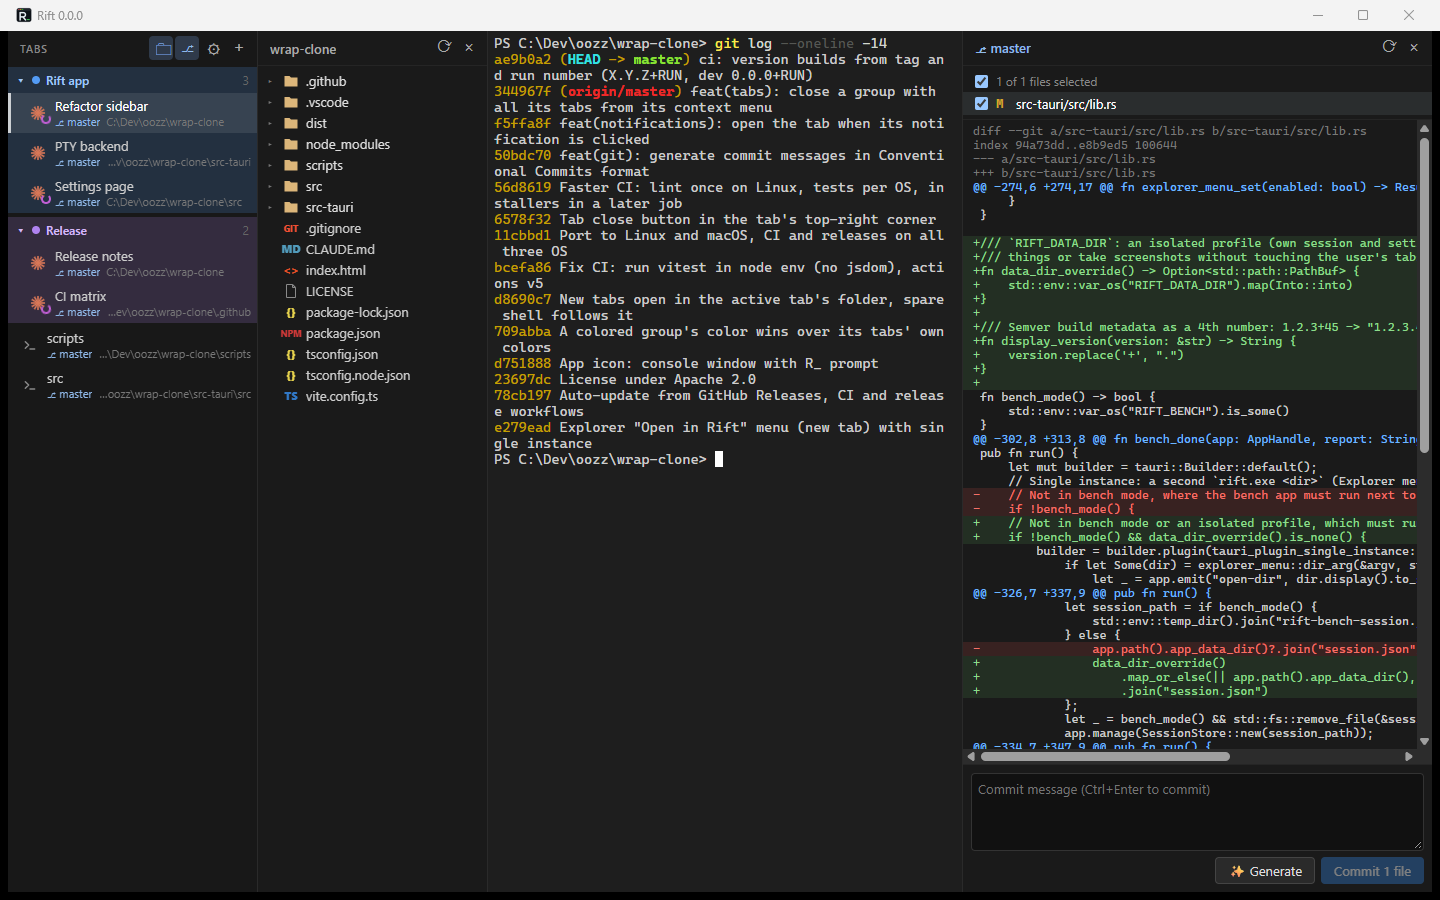
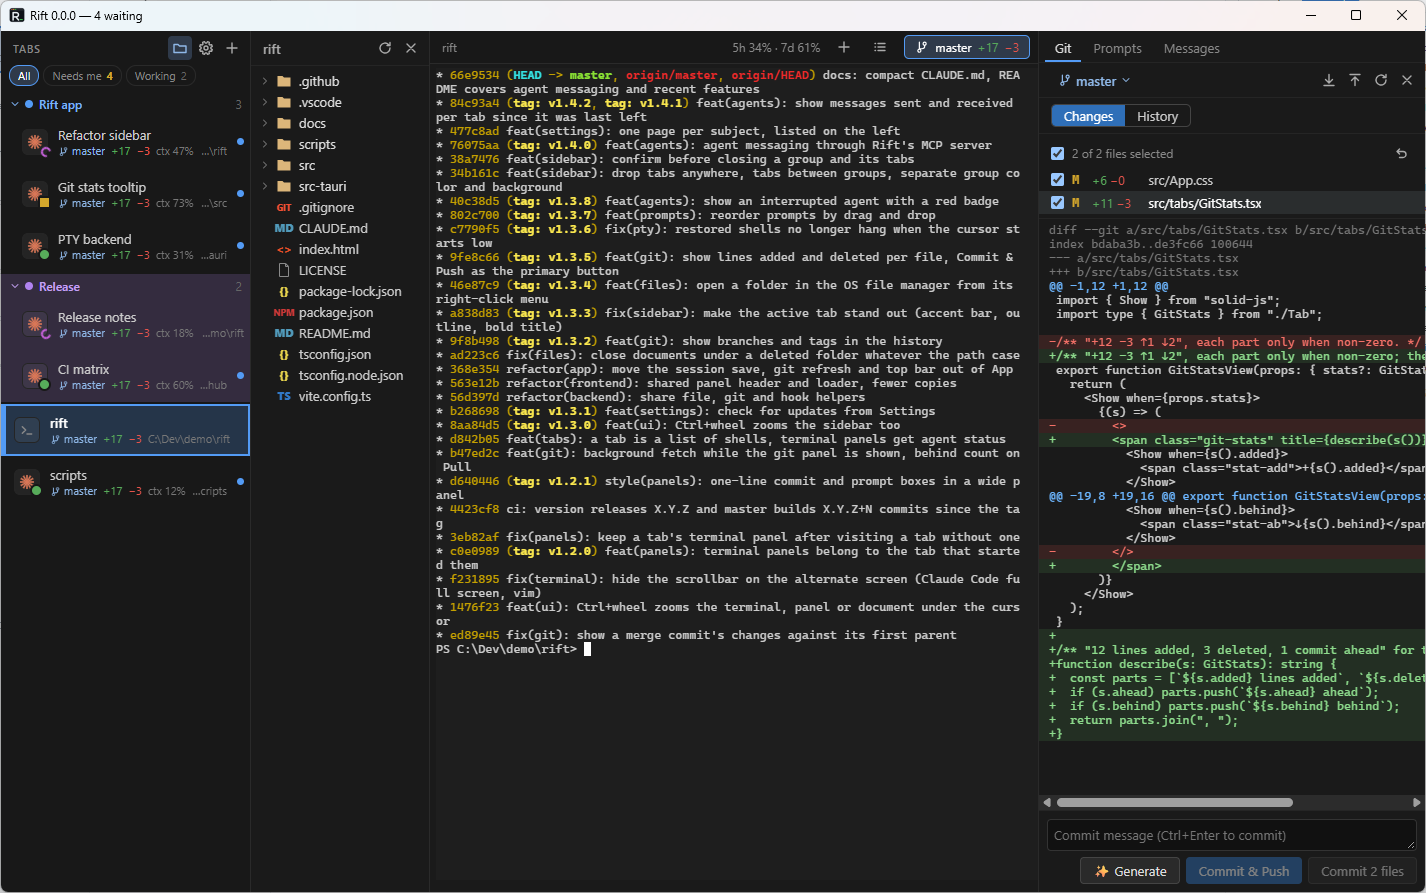
docs: retake README screenshots on the current UI

Changed region(s): [[0.0, 0.0, 1.0, 1.0], [0.0, 0.0, 0.2777, 0.5745], [0.1851, 0.0302, 0.2468, 0.0605]]

diff --git a/README.md b/README.md
@@ -13,7 +13,7 @@ Vertical tabs that switch instantly, the status of every agent on its tab, and e
 
 [**Download**](https://github.com/o0Zz/Rift/releases/latest) · [Features](#features) · [Shortcuts](#keyboard-shortcuts) · [Build from source](#build-from-source)
 
-<img src="docs/screenshots/rift-dark.png" alt="Rift: grouped vertical tabs with Claude Code status, file tree, terminal and git diff" />
+<img src="docs/screenshots/rift-dark.png" alt="Rift: grouped vertical tabs with Claude Code status and context, file tree, terminal and git diff" />
 
 </div>
 
@@ -93,7 +93,7 @@ freezing the window) and fails when a change goes over budget.
   stays untouched.
 
 <div align="center">
-<img src="docs/screenshots/rift-light.png" alt="Rift in light theme" />
+<img src="docs/screenshots/rift-light.png" alt="Rift in light theme: README open in the Markdown reader, prompts panel" />
 </div>
 
 ## Install
